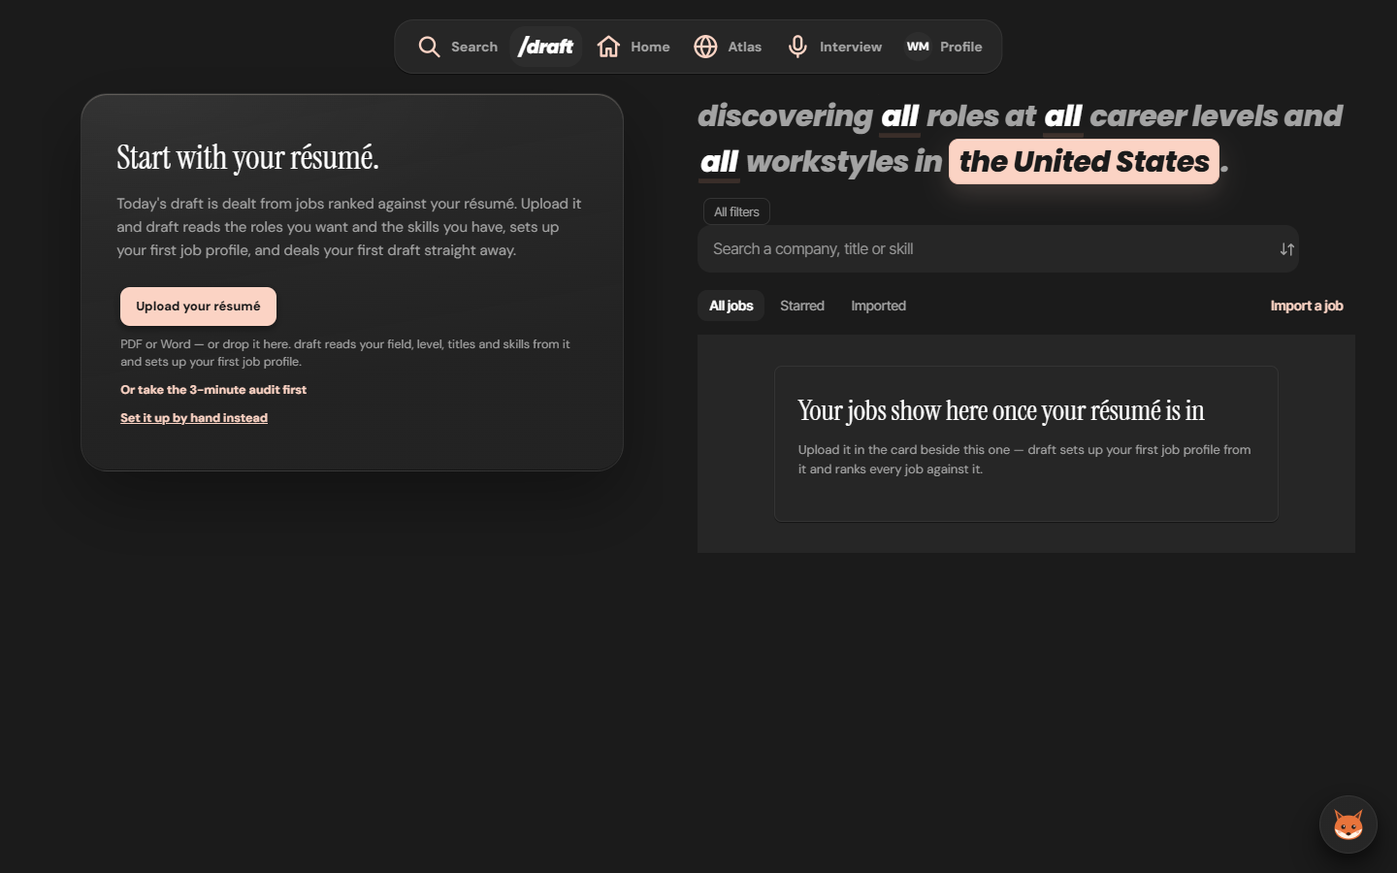
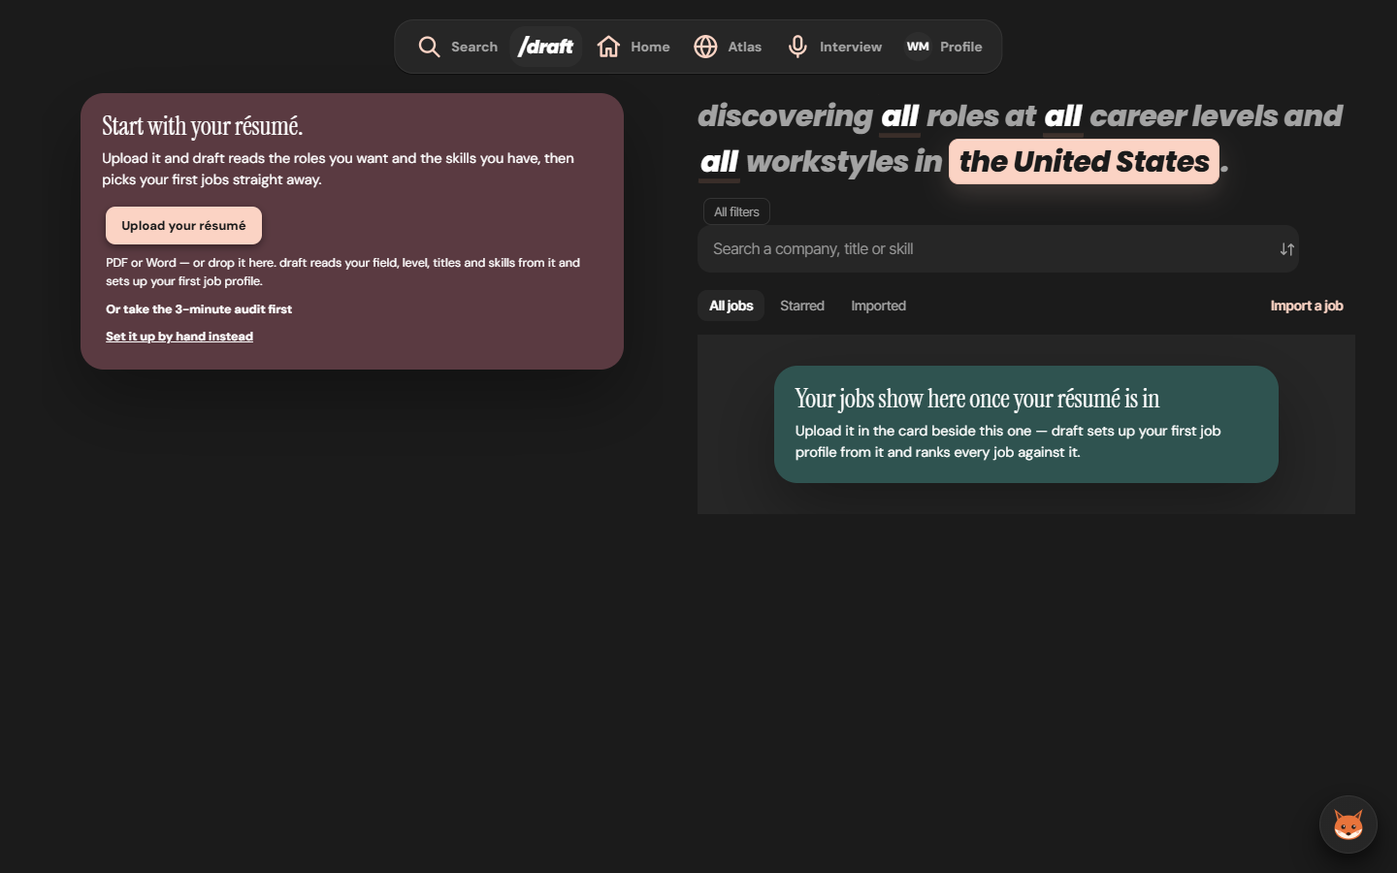
A233 (46u): the board text pass — note cards for its empties, plain filter notes
The next screen of the text pass (the owner's pick: explanations and empty states as note cards, plain words).

- The deck's three empties (first visit, no résumé, nothing strong enough) are note cards; the first visit's card
  carries the résumé upload as its action. "dealt", "Strong and Moderate matches" and "rank" are gone from them.
- Every set-up gate on the board (SetupGateNotice — "Your jobs show here once your résumé is in" and the rest) is a
  note card.
- The end of the deck keeps "That's it until tomorrow" (deckFan pins it) without "dealt" or "the queue".
- The filter notes say what a reader can use: no "coverage", "on file", "the floor" or "ATS score" ("47.5% of jobs say
  where you would work; the rest are kept, not hidden"); the sort panel's unscored line likewise.
- The board's help lines (citizenship, likely-not-hiring, industry, Imported, the empty pool, all filters excluding)
  in plain words, "jobs" not "postings".
- NoteCard merges a passed style with its pastel (a style prop wiped the pastel). StartFromResume's small print and
  links use the CSS colour variables, so inside a note card they read as INK (the hex constant could not be
  overridden and read grey on the dark pastel).

Pins moved on purpose: d35FullHouseHeader, d24FilterSentenceClient (the notes; the escaped apostrophe accepted),
a104ResumeStartsProfile (the upload is the card's action now).
[…]

Changed region(s): [[0.0312, 0.0933, 0.4688, 0.4978], [0.5312, 0.4044, 0.9375, 0.56]]

diff --git a/client/src/panels/JobsPanel.jsx b/client/src/panels/JobsPanel.jsx
@@ -895,8 +895,8 @@ function FiltersPanel({
             <span style={{ fontSize:ts(12), fontWeight:600 }}>Hide roles that require clearance or citizenship</span>
           </button>
           <div style={{ fontSize:ts(10), color:theme.textMuted, marginTop:5, lineHeight:1.45 }}>
-            Hides postings that state U.S. citizenship, U.S.-person (export control), a security clearance or a
-            polygraph. Read from the posting's own words — postings we have not read yet stay on the board.
+            Hides jobs that ask for U.S. citizenship, U.S.-person status, a security clearance or a polygraph,
+            read from the job's own words. Jobs we haven't read yet stay.
           </div>
         </div>
 
@@ -945,8 +945,8 @@ function FiltersPanel({
             <span style={{ fontSize:ts(12), fontWeight:600 }}>Hide likely not hiring</span>
           </button>
           <div style={{ fontSize:ts(10), color:theme.textMuted, marginTop:5, lineHeight:1.45 }}>
-            Leaves out postings with strong signs of no current opening — a talent-pool title, many reposts, months
-            open, no replies to people who applied. Each one shows its reasons; off, they stay at the end of the board.
+            Leaves out jobs that look like no one is hiring: a talent-pool title, many reposts, months open.
+            Each one shows its reasons; turned off, they stay at the end of the board.
           </div>
         </div>
 
@@ -976,8 +976,8 @@ function FiltersPanel({
             })}
           </div>
           <div style={{ fontSize:ts(10), color:theme.textDim, marginTop:4 }}>
-            The employer's industry, not the kind of work — pick the kind of work in the sentence above.
-            Companies with no sector on file are kept, after the ones we know.
+            The employer's industry, not the kind of work (pick that in the sentence above). Companies
+            whose industry we don't know are kept, after the rest.
           </div>
         </div>
 
@@ -4577,8 +4577,8 @@ export function ImportedEmptyState({ theme }) {
     <div data-imported-empty="" style={{ padding:"28px 16px", color:theme.textMuted, fontSize:ts(14), lineHeight:1.6, maxWidth:560 }}>
       <p style={{ margin:"0 0 8px", color:theme.text, fontWeight:700 }}>No imported jobs yet.</p>
       <p style={{ margin:0 }}>
-        Open any job posting in Chrome and capture it with the draft extension (⌃⇧K). It lands on your
-        board — in ALL, and here. Use <strong>Import jobs</strong> above to set the extension up.
+        Open any job in Chrome and save it with the draft extension (⌃⇧K). It lands on your board, in
+        All jobs and here. Use <strong>Import jobs</strong> above to set the extension up.
       </p>
     </div>
   );
@@ -4809,7 +4809,7 @@ function BoardEmptyState({ theme }) {
   const { theme: t } = useTheme();
   return (
     <EmptyState theme={theme || t} title="No jobs on the board yet"
-      body="Nothing in the pool matches the board right now. Add any posting with the extension — it lands under +." />
+      body="Nothing on the board matches right now. Add any job with the extension; it lands under +." />
   );
 }
 
@@ -4917,8 +4917,8 @@ function FilteredEmptyState({ theme, count, onClearFilters }) {
         Your filters exclude all jobs
       </div>
       <div style={{ fontSize:ts(12), textAlign:"center", color:th.textDim, maxWidth:360, lineHeight:1.8 }}>
-        {count} filter{count === 1 ? " is" : "s are"} active on this board and nothing matches all
-        of them. The postings are still there — widen or clear the filters to see them.
+        Nothing matches all {count} filter{count === 1 ? "" : "s"}. The jobs are still there; widen or
+        clear the filters to see them.
       </div>
       {onClearFilters && (
         <button type="button" onClick={onClearFilters}
@@ -4975,29 +4975,21 @@ function RoleScopedEmptyState({ profileName }) {
 }
 
 function SetupGateNotice({ theme, title, body, actionLabel, onAction, children = null }) {
+  // ⭐ A233: a set-up gate is a note card — its title, one line, its one action.
   return (
     <div style={{ flex:1, display:"flex", alignItems:"center", justifyContent:"center",
                   padding:32, background:theme.bg }}>
-      <div style={{ width:"min(92vw, 520px)", border:`1px solid ${theme.border}`,
-                    background:theme.surface, borderRadius:8, padding:24,
-                    boxShadow:C.SHADOW_SM }}>
-        <div style={{ fontFamily:"var(--font-display)", fontWeight:400,
-                      fontSize:ts(29),
-                      color:theme.text, marginBottom:8 }}>
-          {title}
-        </div>
-        <div style={{ fontSize:ts(13), lineHeight:1.6, color:theme.textMuted, marginBottom:18 }}>
-          {body}
-        </div>
-        {children || (actionLabel && (
+      <NoteCard id={`board-gate-${String(title || "").slice(0, 24)}`} title={title} style={{ width:"min(92vw, 520px)" }}
+        actions={children || (actionLabel && (
           <button className="dbx-depth" onClick={onAction}
             style={{ border:"none", padding:"10px 16px",
                      background:theme.accent, color:C.ON_ACCENT, fontWeight:800,
                      cursor:"pointer", fontFamily:"inherit"}}>
             {actionLabel}
           </button>
-        ))}
-      </div>
+        ))}>
+        {body}
+      </NoteCard>
     </div>
   );
 }

diff --git a/client/src/panels/DeckView.jsx b/client/src/panels/DeckView.jsx
@@ -54,6 +54,7 @@ import { A_PLUS_TOOL, GENERATE_TOOL } from "../lib/applyTools.js";
 import { DECISIONS, counts, deckReducer, fanOrder, initialDeck, isFinished, stepTarget } from "../lib/deckState.js";
 import { DECISION_SURFACES, DECISION_TOAST_MS, DECISION_VERB, commitDecision, undoDecision } from "../lib/jobDecisions.js";
 import DecisionToast from "../components/DecisionToast.jsx";
+import { NoteCard } from "../components/TextBlocks.jsx";   // A233: the empties as note cards
 import { EXPAND_CLOCK, HOME_CARD, HOME_FAN, HOME_FAN_WIDE, HOME_WIDE, cardSize, fanTransform, geometryFor, homeCardSize, homeDeckColumn, homeFanTransform, homeLandscape, orientationFor } from "../lib/fanGeometry.js";
 import { useDeckGeometry } from "../hooks/useDeckGeometry.js";
 import { readDeckOrder } from "../lib/deckOrder.js";
@@ -673,9 +674,9 @@ function EndOfDeck({ s, tally, needsReview, onUndo }) {
 
       <motion.p {...line(3)} style={{ fontSize: ts(15), color: C.INK_MUTED, lineHeight: 1.6, margin: "0 0 22px" }}>
         {tally.drafted > 0
-          ? <>Nothing has been sent. {tally.drafted === 1 ? "That draft waits" : "Each draft waits"} for your review{needsReview > 0 ? <> — <strong style={{ color: C.INK }}>{needsReview}</strong> {needsReview === 1 ? "thing needs" : "things need"} you in the queue now</> : null}.</>
+          ? <>Nothing has been sent. {tally.drafted === 1 ? "That draft waits" : "Each draft waits"} for your review{needsReview > 0 ? <> (<strong style={{ color: C.INK }}>{needsReview}</strong> {needsReview === 1 ? "needs" : "need"} you now)</> : null}.</>
           : <>You drafted nothing today, which is a fine answer when nothing fits.</>}
-        {" "}That is it until tomorrow: the next draft is dealt in {untilTomorrow()}.
+        {" "}That's it until tomorrow: your next picks arrive in {untilTomorrow()}.
       </motion.p>
 
       <motion.div {...line(4)} style={{ display: "flex", gap: 12, flexWrap: "wrap", alignItems: "center" }}>
@@ -1222,27 +1223,25 @@ export default function DeckView({ canUseAPlusResume = true, home = false }) {
           const copy = {
             // A104: the résumé sets the first profile up — one upload, and the deck is dealt.
             no_profile: ["Start with your résumé.",
-              "Today's draft is dealt from jobs ranked against your résumé. Upload it and draft reads the roles you want and the skills you have, sets up your first job profile, and deals your first draft straight away.",
+              "Upload it and draft reads the roles you want and the skills you have, then picks your first jobs straight away.",
               []],
-            no_resume: ["Add your résumé to get today's draft.",
-              "Fit is judged against your résumé, so there is nothing to rank until it's there. It takes a minute, and nothing is sent anywhere.",
+            no_resume: ["Add your résumé to get today's picks.",
+              "draft judges fit against your résumé. It takes a minute, and nothing is sent anywhere.",
               [["/app/job-profiles", "Add your résumé →"], ["/app/jobs", "Every job"]]],
             empty: ["Nothing strong enough today.",
-              "Today's draft only deals Strong and Moderate matches you haven't decided yet, and there are none right now. A thin résumé makes most jobs read as weak — adding detail changes this more than anything else.",
+              "Today's picks are good and close fits you haven't decided on, and there are none right now. More detail in your résumé changes this most.",
               [["/app/jobs", "All jobs →"], ["/app/job-profiles", "Improve your profile →"]]],
           }[s.reason] || null;
           const [title, body, links] = copy || [null, null, []];
           return (
-            <div style={{ ...glass({ radius: 28 }), padding: "40px 36px" }} data-deck-empty={s.reason || "empty"}>
-              <div style={{ fontFamily: "var(--font-display)", fontSize: ts(34), color: C.INK, marginBottom: 10 }}>{title || "Nothing strong enough today."}</div>
-              <p style={{ fontSize: ts(15), color: C.INK_MUTED, lineHeight: 1.6, margin: "0 0 22px" }}>{body}</p>
-              <div style={{ display: "flex", gap: 18, fontWeight: 800, fontSize: ts(14.5), flexWrap: "wrap" }}>
-                {links.map(([to, label]) => <Link key={to} to={to} style={{ color: C.ACCENT_INK }}>{label}</Link>)}
-              </div>
-              {s.reason === "no_profile" && (
-                <StartFromResume onDone={(r) => { fetchDeck(); if (r?.profile?.id) setActiveProfileId?.(r.profile.id); }} onManual={() => navigate("/app/job-profiles")} />
-              )}
-            </div>
+            // ⭐ A233: each empty is a note card — its title, one line, the way forward (a new account: the upload).
+            <NoteCard id={`deck-empty-${s.reason || "empty"}`} title={title || "Nothing strong enough today."} data-deck-empty={s.reason || "empty"}
+              style={{ maxWidth: "none" }}
+              actions={s.reason === "no_profile"
+                ? <StartFromResume onDone={(r) => { fetchDeck(); if (r?.profile?.id) setActiveProfileId?.(r.profile.id); }} onManual={() => navigate("/app/job-profiles")} />
+                : links.map(([to, label]) => <Link key={to} to={to} style={{ fontWeight: 800 }}>{label}</Link>)}>
+              {body}
+            </NoteCard>
           );
         })()}
 

diff --git a/test/d35FullHouseHeader.test.js b/test/d35FullHouseHeader.test.js
@@ -285,7 +285,7 @@ test("D35 ⑤ the LOCATION panel cannot clear the United States floor — it nar
   const { BoardHeadline, html, WordPanel } = await loadUi();
   assert.equal(slot(BoardHeadline({ params: {}, onToggle() {} }), "location").props["aria-pressed"], true);
   const out = html(WordPanel, { open: "location", params: {}, facets: FACETS, facetsStatus: "ready" });
-  assert.match(out, /The United States is the floor — it can be narrowed, never cleared\./);
+  assert.match(out, /You can narrow the United States, not clear it\./   /* A233 (46u): plain words, on purpose */);
 });
 
 // ═══ 6 · zero is dimmed, not selectable, never hidden ═════════════════════════════════════════════
@@ -456,16 +456,16 @@ test("D35 §3 → D40: the CONDENSED BAR — FOUR views with counts, the search,
 });
 
 test("D35 §5: the PANEL COPY — its figures LIVE from facets, never the row's literal numbers", async () => {
-  assert.equal(panelNote("where", {}, FACETS), "47.5% coverage — postings with no workplace on file are kept, not hidden.");
-  assert.equal(panelNote("level", {}, FACETS), "3 postings have no level on file — kept, not hidden.");
-  assert.equal(panelNote(BOARD_PANEL.MORE, {}, FACETS), "Employment type is at 7.8% coverage and cannot carry a filter yet.");
-  assert.equal(unscoredText(FACETS), "37 jobs have no ATS score yet, so they sort last whatever you pick. Newest shows everything.");
+  assert.equal(panelNote("where", {}, FACETS), "47.5% of jobs say where you would work; the rest are kept, not hidden.");
+  assert.equal(panelNote("level", {}, FACETS), "3 jobs don't say their level; kept, not hidden.");
+  assert.equal(panelNote(BOARD_PANEL.MORE, {}, FACETS), "Only 7.8% of jobs say their employment type, too few to filter on yet.");
+  assert.equal(unscoredText(FACETS), "37 jobs haven't been scored yet, so they sort last whatever you pick. Newest shows everything.");
   // A different board says different numbers: the copy is measured, not written down.
   const other = { ...FACETS, total: 200, unscored: 1, coverage: { level: 199, where: 50, employment: 2 } };
-  assert.equal(panelNote("where", {}, other), "25% coverage — postings with no workplace on file are kept, not hidden.");
-  assert.equal(panelNote("level", {}, other), "1 posting has no level on file — kept, not hidden.");
-  assert.equal(panelNote(BOARD_PANEL.MORE, {}, other), "Employment type is at 1% coverage and cannot carry a filter yet.");
-  assert.equal(unscoredText(other), "1 job has no ATS score yet, so it sorts last whatever you pick. Newest shows everything.");
+  assert.equal(panelNote("where", {}, other), "25% of jobs say where you would work; the rest are kept, not hidden.");
+  assert.equal(panelNote("level", {}, other), "1 job doesn't say their level; kept, not hidden.");
+  assert.equal(panelNote(BOARD_PANEL.MORE, {}, other), "Only 1% of jobs say their employment type, too few to filter on yet.");
+  assert.equal(unscoredText(other), "1 job hasn't been scored yet, so it sorts last whatever you pick. Newest shows everything.");
   // No answer: the coverage lines say nothing rather than a guessed number.
   assert.equal(panelNote("where", {}, null), null);
   assert.equal(panelNote("level", {}, null), null);
@@ -485,7 +485,7 @@ test("D35 §5: the PANEL COPY — its figures LIVE from facets, never the row's 
   assert.match(html(AddOptions, { params: {} }), /data-add="employment" aria-disabled="true"/);
   // The sort panel keeps its line, with Newest in bold, and only when Best fit is offered.
   const sp = html(SortPanel, { value: "", atsAvailable: true, facets: FACETS, facetsStatus: "ready" });
-  assert.match(sp, /37 jobs have no ATS score yet, so they sort last whatever you pick\. <b>Newest<\/b> shows everything\./);
+  assert.match(sp, /37 jobs haven(?:'|&#x27;)t been scored yet, so they sort last whatever you pick\. <b>Newest<\/b> shows everything\./);
   assert.doesNotMatch(html(SortPanel, { value: "", atsAvailable: false, facets: FACETS, facetsStatus: "ready" }), /no ATS score/);
   assert.equal(isWordPanel("sort"), false, "the sort panel is the bar's, not the sentence's");
 });

diff --git a/client/src/lib/filterSentenceModel.js b/client/src/lib/filterSentenceModel.js
@@ -247,32 +247,32 @@ export function panelNote(panel, params, facets) {
   if (split) return split;
   // D153 (2): a place's number is the postings that LIST it — one that lists two cities counts in both — and a remote
   // role with no city is counted once, under Remote (US).
-  if (panel === "location") return `The United States is the floor — it can be narrowed, never cleared. Each number is the postings that list that place; remote roles with no city are under ${LOCATION_REMOTE.label}.`;
+  if (panel === "location") return `You can narrow the United States, not clear it. Each number counts the jobs that list that place; remote jobs with no city are under ${LOCATION_REMOTE.label}.`;
   if (panel === "where") {
     const p = coverageShare(facets, "where");
-    return p == null ? null : `${p}% coverage — postings with no workplace on file are kept, not hidden.`;
+    return p == null ? null : `${p}% of jobs say where you would work; the rest are kept, not hidden.`;
   }
   if (panel === "level") {
     const known = facets?.coverage?.level;
     if (!usable || !Number.isFinite(known)) return null;
     const n = Math.max(0, facets.total - known);
-    return n ? `${plural(n, "posting has", "postings have")} no level on file — kept, not hidden.` : null;
+    return n ? `${plural(n, "job doesn't", "jobs don't")} say their level; kept, not hidden.` : null;
   }
   if (panel === "domain") {
     const clause = SENTENCE_CLAUSES.find(c => c.key === "domain");
     const n = unclassifiedCount(clause, params, facets);
-    return n ? `${plural(n, "posting has", "postings have")} no kind of work on file — kept, not hidden.` : null;
+    return n ? `${plural(n, "job doesn't", "jobs don't")} say what kind of work; kept, not hidden.` : null;
   }
   if (panel === "fit") {
     return usable && Number.isFinite(facets.unscored) && facets.unscored > 0
-      ? `${plural(facets.unscored, "job has", "jobs have")} no ATS score yet — no fit band can show ${facets.unscored === 1 ? "it" : "them"}.`
+      ? `${plural(facets.unscored, "job hasn't", "jobs haven't")} been scored against your résumé yet, so no fit can show ${facets.unscored === 1 ? "it" : "them"}.`
       : null;
   }
   if (panel === BOARD_PANEL.MORE) {
     const p = coverageShare(facets, "employment");
     return p == null
-      ? "Employment type is not on file for enough postings to carry a filter yet."
-      : `Employment type is at ${p}% coverage and cannot carry a filter yet.`;
+      ? "Too few jobs say their employment type to filter on it yet."
+      : `Only ${p}% of jobs say their employment type, too few to filter on yet.`;
   }
   return null;
 }
@@ -371,8 +371,8 @@ export const tieBreakText = (row) => (row.tieBreak?.length ? `Ties broken by: ${
 export function unscoredParts(facets) {
   const newest = SORT_PANEL.find(o => !o.unscoredLast && /everything/i.test(o.subtitle))?.short ?? null;
   const lead = facetsUsable(facets) && Number.isFinite(facets.unscored)
-    ? `${plural(facets.unscored, "job has", "jobs have")} no ATS score yet, so ${facets.unscored === 1 ? "it sorts" : "they sort"} last whatever you pick.`
-    : "Jobs with no ATS score yet sort last whatever you pick.";
+    ? `${plural(facets.unscored, "job hasn't", "jobs haven't")} been scored yet, so ${facets.unscored === 1 ? "it sorts" : "they sort"} last whatever you pick.`
+    : "Jobs not scored yet sort last whatever you pick.";
   return { lead, newest };
 }
 export function unscoredText(facets) {

diff --git a/test/d24FilterSentenceClient.test.js b/test/d24FilterSentenceClient.test.js
@@ -272,7 +272,7 @@ test("D26/D28: the board's bar is the search input only; a search never touches 
 test("D24 → D35: the SORT PANEL renders every order with its note, the chosen order's TIE-BREAK, and the unscored line", async () => {
   const best = SORT_PANEL.find(o => o.unscoredLast);
   assert.equal(tieBreakText(best), "Ties broken by: newest first, then company A–Z");
-  assert.equal(unscoredText(FACETS), "37 jobs have no ATS score yet, so they sort last whatever you pick. Newest shows everything.");
+  assert.equal(unscoredText(FACETS), "37 jobs haven't been scored yet, so they sort last whatever you pick. Newest shows everything.");
   const { html, SortPanel } = await loadUi();
   for (const o of SORT_PANEL) {
     const out = html(SortPanel, { value: o.value, atsAvailable: true, facets: FACETS, facetsStatus: "ready" });
@@ -282,13 +282,13 @@ test("D24 → D35: the SORT PANEL renders every order with its note, the chosen 
     assert.match(out, new RegExp(`role="radio" aria-checked="true" class="fh-op" data-sort="${o.value}"`));
   }
   const out = html(SortPanel, { value: "dateDesc", atsAvailable: true, facets: FACETS, facetsStatus: "ready" });
-  assert.match(out, /37 jobs have no ATS score yet, so they sort last whatever you pick\. <b>Newest<\/b> shows everything\./);
+  assert.match(out, /37 jobs haven(?:'|&#x27;)t been scored yet, so they sort last whatever you pick\. <b>Newest<\/b> shows everything\./);
   const noFit = html(SortPanel, { value: "dateDesc", atsAvailable: false, facets: FACETS, facetsStatus: "ready" });
   assert.ok(!noFit.includes(`>${best.short}<`), "Best fit offered without a résumé");
   assert.deepEqual(sortRows(false).map(r => r.value),
     [DEFAULT_SORT, ...SORT_PANEL.filter(o => !o.unscoredLast).map(o => o.value)]);
   const unknown = html(SortPanel, { value: "dateDesc", facets: null, facetsStatus: "unavailable" });
-  assert.match(unknown, /Jobs with no ATS score yet sort last whatever you pick\. <b>Newest<\/b> shows everything\./);
+  assert.match(unknown, /Jobs not scored yet sort last whatever you pick\. <b>Newest<\/b> shows everything\./);
 });
 
 test("D24: the DEFAULT board request carries NO sort param — the curated order; Newest is explicit", async () => {

diff --git a/client/src/components/StartFromResume.jsx b/client/src/components/StartFromResume.jsx
@@ -41,14 +41,14 @@ export default function StartFromResume({ onDone, onManual, compact = false }) {
         style={{ border: "none", padding: "10px 16px", background: C.ACCENT, color: C.ON_ACCENT, fontWeight: 800, cursor: busy ? "wait" : "pointer", fontFamily: "inherit" }}>
         {busy ? "Reading…" : "Upload your résumé"}
       </button>
-      <span style={{ fontSize: ts(12.5), color: C.INK_MUTED, lineHeight: 1.5 }}>
+      <span style={{ fontSize: ts(12.5), color: "var(--c-ink-muted)", lineHeight: 1.5 }}>
         PDF or Word — or drop it here. draft reads your field, level, titles and skills from it and sets up your first job profile.
       </span>
       {msg && <span role="status" style={{ fontSize: ts(12.5), color: C.INK }}>{msg}</span>}
       {/* ⭐ D150 T08: the first screen offers the 3-minute audit beside the résumé — either order leads to the map. */}
-      <a href="/audit" data-start-audit="" style={{ color: C.ACCENT_INK, fontWeight: 700, fontSize: ts(12.5) }}>Or take the 3-minute audit first</a>
+      <a href="/audit" data-start-audit="" style={{ color: "var(--c-accent-ink)", fontWeight: 700, fontSize: ts(12.5) }}>Or take the 3-minute audit first</a>
       {onManual && (
-        <button type="button" onClick={onManual} style={{ border: 0, background: "none", padding: 0, color: C.ACCENT_INK,
+        <button type="button" onClick={onManual} style={{ border: 0, background: "none", padding: 0, color: "var(--c-accent-ink)",
           fontWeight: 700, fontSize: ts(12.5), cursor: "pointer", textDecoration: "underline", fontFamily: "inherit" }}>
           Set it up by hand instead
         </button>

diff --git a/client/src/components/TextBlocks.jsx b/client/src/components/TextBlocks.jsx
@@ -9,9 +9,9 @@ import "./TextBlocks.css";
 import { pastelVar } from "../../../shared/pastel.js";
 
 /** An explanation or an empty state as a note card. `id` picks its pastel; `actions` are buttons or links. */
-export function NoteCard({ id = "note", title, children = null, actions = null, className = "", ...data }) {
+export function NoteCard({ id = "note", title, children = null, actions = null, className = "", style = null, ...data }) {
   return (
-    <div className={`tb-note${className ? ` ${className}` : ""}`} style={{ "--tb-c": pastelVar(id) }} data-note-card={id} {...data}>
+    <div className={`tb-note${className ? ` ${className}` : ""}`} style={{ "--tb-c": pastelVar(id), ...(style || {}) }} data-note-card={id} {...data}>
       {title && <p className="tb-note__t">{title}</p>}
       {children && <div className="tb-note__s">{children}</div>}
       {actions && <div className="tb-note__acts">{actions}</div>}

diff --git a/test/a104ResumeStartsProfile.test.js b/test/a104ResumeStartsProfile.test.js
@@ -118,7 +118,7 @@ test("A104 UI · a new account's board and deck ask for the résumé; the wizard
   // and the deck hands the new profile to the shared active id so the board's profile read re-runs.
   assert.doesNotMatch(jobs, /<StartFromResume/);
   assert.match(jobs, /title: "Your jobs show here once your résumé is in"/);
-  assert.match(deck, /s\.reason === "no_profile" && \(\s*<StartFromResume onDone=\{\(r\) => \{ fetchDeck\(\); if \(r\?\.profile\?\.id\) setActiveProfileId\?\.\(r\.profile\.id\); \}\}/);
+  assert.match(deck, /s\.reason === "no_profile"\s*\?\s*<StartFromResume onDone=\{\(r\) => \{ fetchDeck\(\); if \(r\?\.profile\?\.id\) setActiveProfileId\?\.\(r\.profile\.id\); \}\}/);
   assert.match(deck, /const setActiveProfileId = useJobBoard\(\)\?\.setActiveProfileId;/);
   // One file reader, not two (A93).
   assert.match(profiles, /import \{ parseResumeFile \} from "\.\.\/lib\/parseResumeFile\.js";/);
